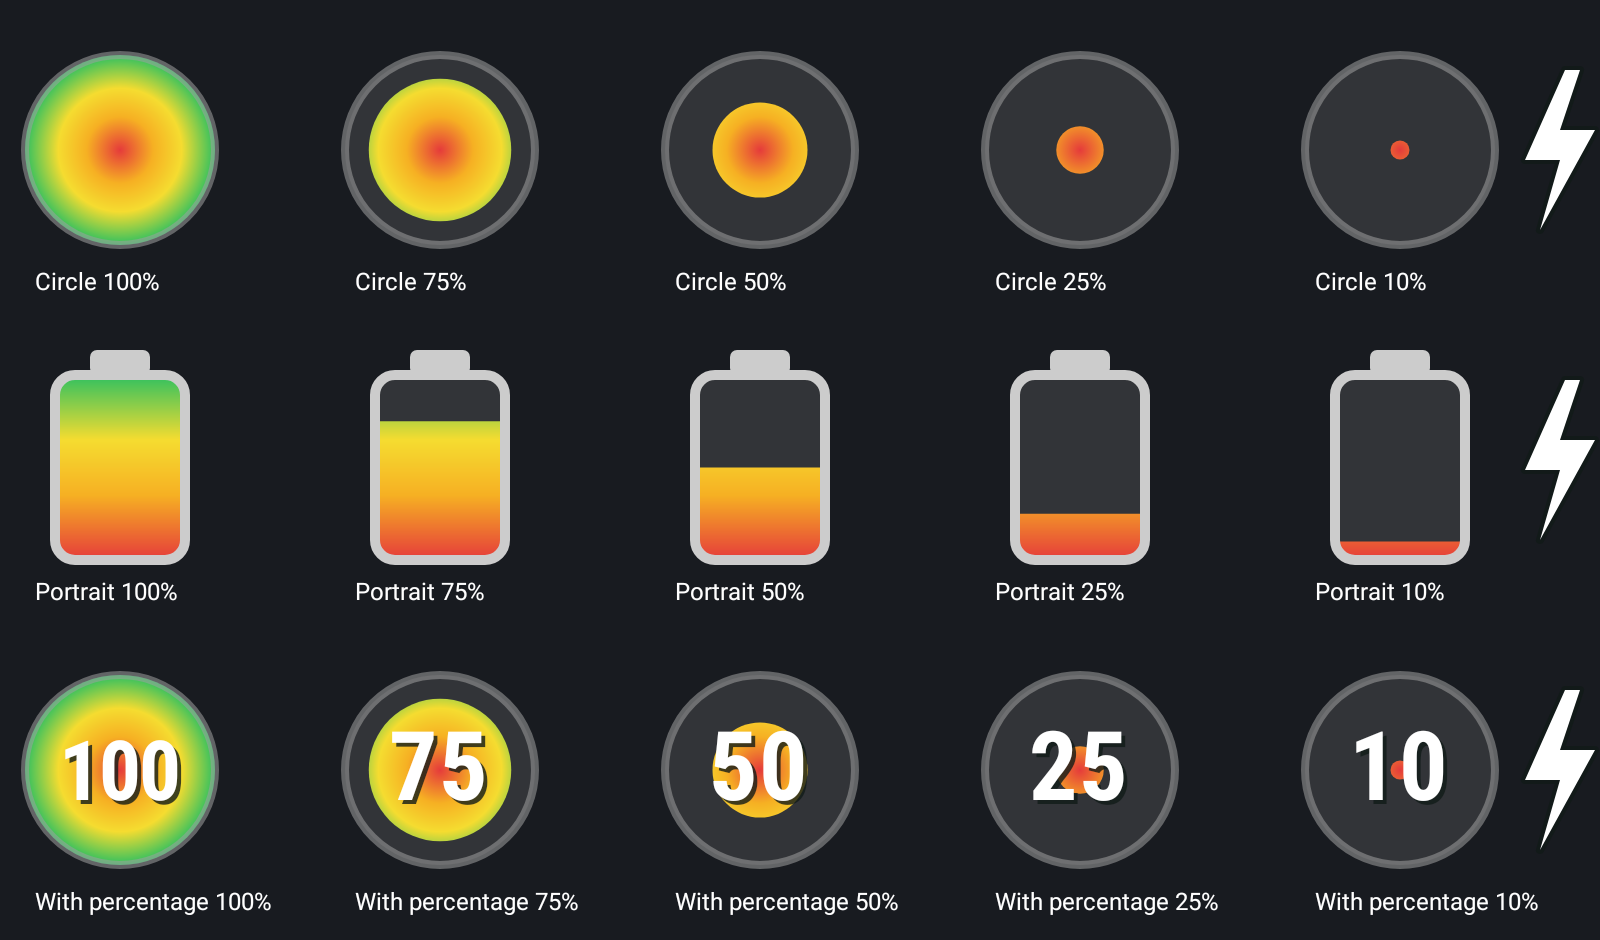
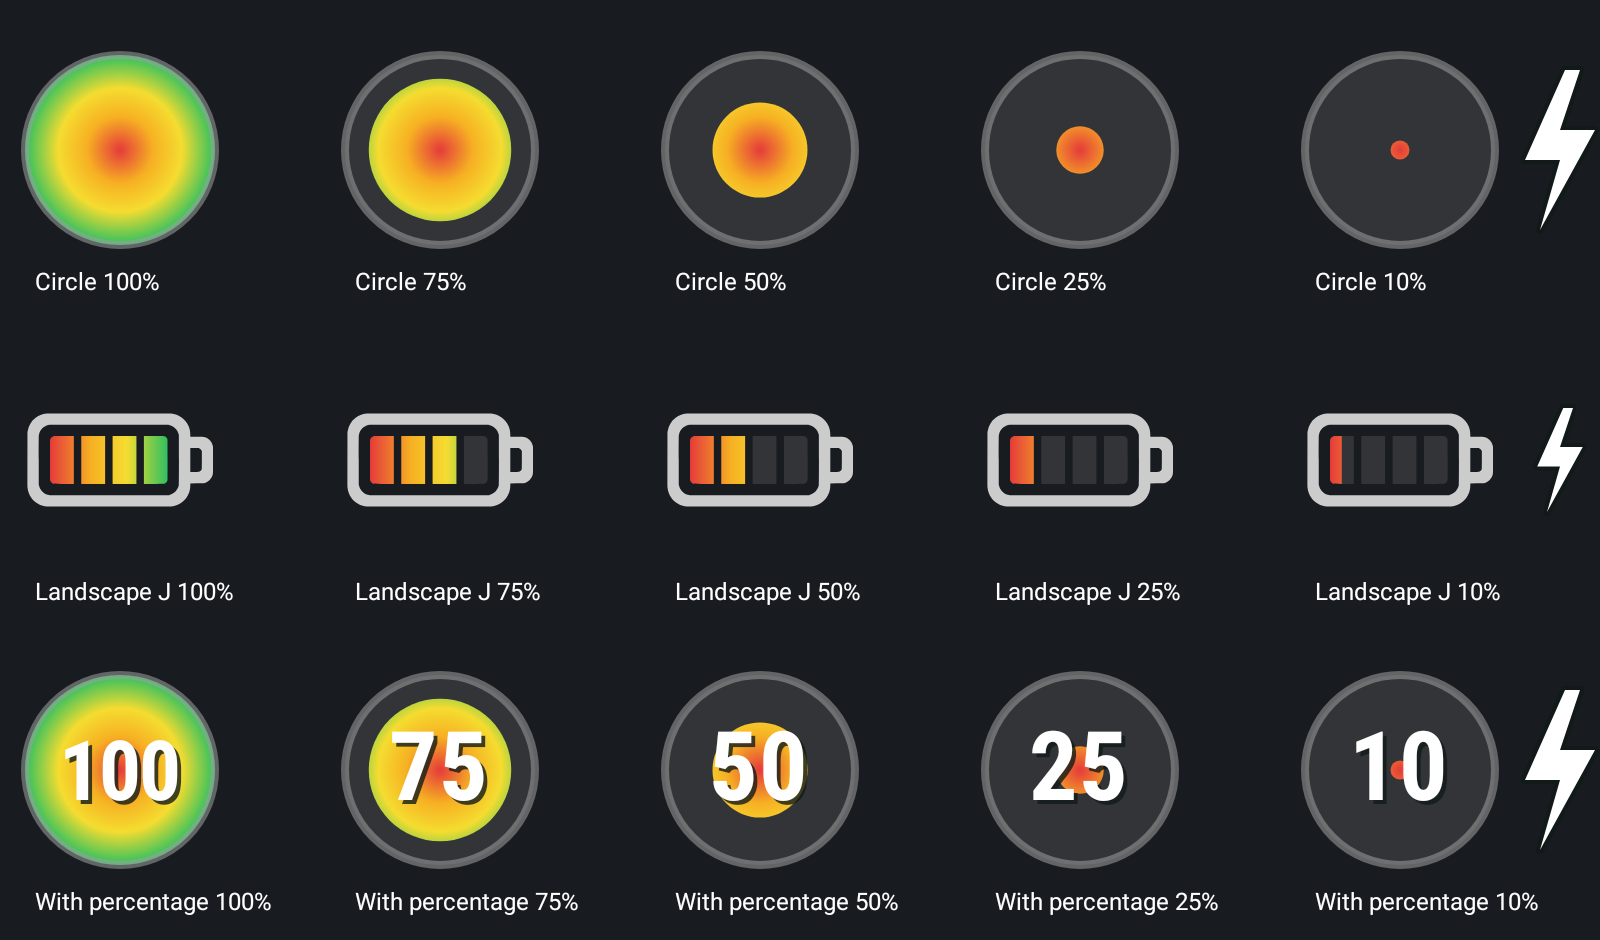
Add files via upload

diff --git a/scripts/check_pack.py b/scripts/check_pack.py
@@ -10,12 +10,12 @@ import hashlib, json
 lock = json.loads((root / 'release-source-sha256.json').read_text())
 for name, digest in lock.items():
     file = root / name
-    assert file.is_file() and hashlib.sha256(file.read_bytes()).hexdigest() == digest, f'Mixed/incomplete 3.0.1 source: {name}; replace with the complete ZIP'
+    assert file.is_file() and hashlib.sha256(file.read_bytes()).hexdigest() == digest, f'Mixed/incomplete 3.1.0 source: {name}; replace with the complete ZIP'
 locked_main = {name for name in lock if name.startswith('app/src/main/')}
 actual_main = {str(file.relative_to(root)) for file in (root / 'app/src/main').rglob('*') if file.is_file() and file.name != '.gitkeep'}
 assert actual_main == locked_main, f'Obsolete/missing app files: {actual_main ^ locked_main}'
 build = (root / 'app/build.gradle').read_text()
-assert "versionName '3.0.1'" in build and 'versionCode 37;' in build
+assert "versionName '3.1.0'" in build and 'versionCode 38;' in build
 assert "implementation 'org.apache.commons:commons-lang3:3.4'" in build
 assert 'android.nonFinalResIds=false' in (root / 'gradle.properties').read_text()
 src = root / 'app/src/main'
@@ -98,4 +98,4 @@ assert {'android.permission.KILL_BACKGROUND_PROCESSES', 'android.permission.EXPA
 assert 'charging_animation' in (java / 'dev/chet/batterygradient/SettingsProvider.java').read_text()
 assert 'new AnimatedBatteryView' in (java / 'dev/chet/batterygradient/BatteryModule.java').read_text()
 assert 'chromepie_v1' in (java / 'dev/chet/mypixelmodpack/PackSettingsProvider.java').read_text()
-print('Verified complete 3.0.1 sources, dependencies, permissions and charging animation')
+print('Verified complete 3.1.0 sources, dependencies, permissions and charging animation')

diff --git a/scripts/check_apk.py b/scripts/check_apk.py
@@ -6,6 +6,6 @@ sdk = Path(os.environ.get('ANDROID_HOME') or os.environ['ANDROID_SDK_ROOT'])
 tools = sdk / 'build-tools/35.0.0'
 badging = subprocess.check_output([str(tools / 'aapt'), 'dump', 'badging', str(apk)], text=True)
 identity = re.search(r"package: name='([^']+)' versionCode='([^']+)' versionName='([^']+)'", badging)
-assert identity and identity.groups() == ('dev.chet.mypixelmodpack', '37', '3.0.1'), badging.splitlines()[:1]
+assert identity and identity.groups() == ('dev.chet.mypixelmodpack', '38', '3.1.0'), badging.splitlines()[:1]
 subprocess.run([str(tools / 'apksigner'), 'verify', '--verbose', str(apk)], check=True)
-print('Verified APK: MyPixelModPack 3.0.1, versionCode 37, package and signature')
+print('Verified APK: MyPixelModPack 3.1.0, versionCode 38, package and signature')
